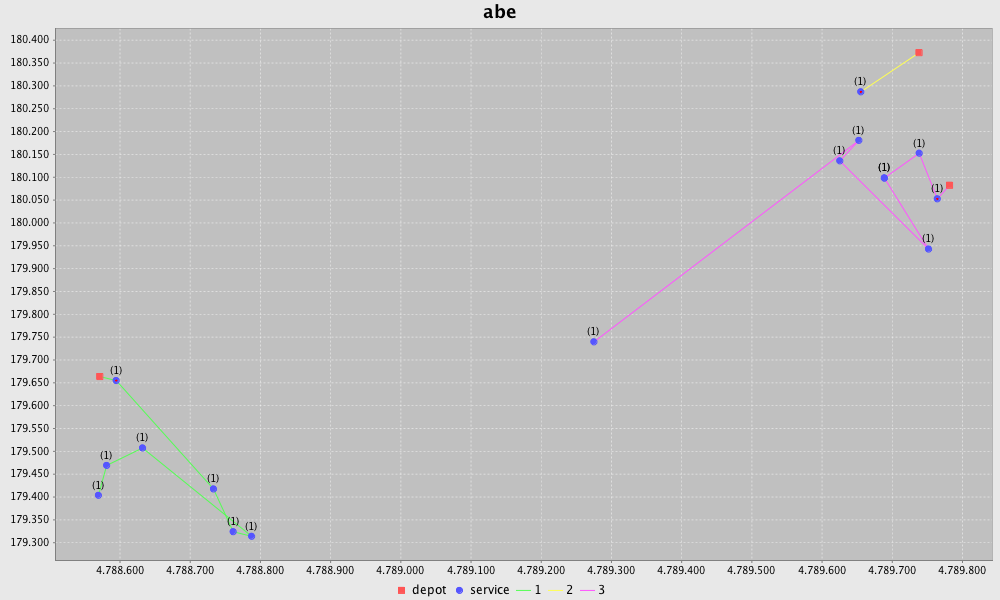
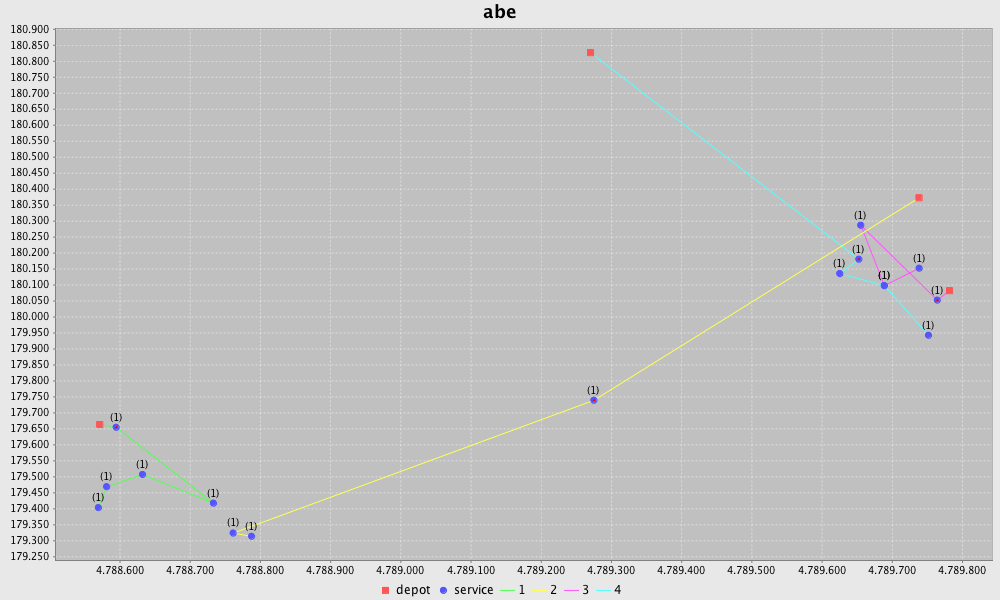
added MinMax problem

diff --git a/src/abe/AbeProblemMinMax.java b/src/abe/AbeProblemMinMax.java
@@ -1,0 +1,233 @@
+package abe;
+
+import java.io.IOException;
+import java.util.Collection;
+
+import jsprit.analysis.toolbox.AlgorithmSearchProgressChartListener;
+import jsprit.analysis.toolbox.Plotter;
+import jsprit.core.algorithm.VehicleRoutingAlgorithm;
+import jsprit.core.algorithm.VehicleRoutingAlgorithmBuilder;
+import jsprit.core.algorithm.recreate.VariableTransportCostCalculator;
+import jsprit.core.algorithm.state.StateManager;
+import jsprit.core.algorithm.state.StateUpdater;
+import jsprit.core.algorithm.termination.VariationCoefficientTermination;
+import jsprit.core.problem.VehicleRoutingProblem;
+import jsprit.core.problem.constraint.ConstraintManager;
+import jsprit.core.problem.constraint.SoftActivityConstraint;
+import jsprit.core.problem.cost.ForwardTransportTime;
+import jsprit.core.problem.cost.VehicleRoutingTransportCosts;
+import jsprit.core.problem.io.VrpXMLReader;
+import jsprit.core.problem.misc.JobInsertionContext;
+import jsprit.core.problem.solution.SolutionCostCalculator;
+import jsprit.core.problem.solution.VehicleRoutingProblemSolution;
+import jsprit.core.problem.solution.route.VehicleRoute;
+import jsprit.core.problem.solution.route.activity.ActivityVisitor;
+import jsprit.core.problem.solution.route.activity.End;
+import jsprit.core.problem.solution.route.activity.TourActivity;
+import jsprit.core.problem.solution.route.state.StateFactory;
+import jsprit.core.problem.solution.route.state.StateFactory.StateId;
+import jsprit.core.reporting.SolutionPrinter;
+import jsprit.core.reporting.SolutionPrinter.Print;
+import jsprit.core.util.ActivityTimeTracker;
+import jsprit.core.util.CalculationUtils;
+import jsprit.core.util.Solutions;
+import jsprit.core.util.VehicleRoutingTransportCostsMatrix;
+
+public class AbeProblemMinMax {
+	
+	/*
+	 * This updates the state "max-transport-time" which is introduced below. Once either the insertion procedure starts or a job has
+	 * been inserted, UpdateMaxTransportTime is called for the route that has been changed.
+	 * 
+	 * It must not only be an ActivityVisitor which indicates that the update procedure starts at the beginning of route all the way to end 
+	 * (in contrary to the ReverseActivityVisitor) but also be a StateUpdater which is just a marker to register it in the StateManager.
+	 * 
+	 * You do not need to declare this as static inner class. You can just choose your preferred approach. However, be aware
+	 * that this requires the stateName "max-transport-time" you define below. If you choose to define this as class in a new file, 
+	 * you might define "max-transport-time" as static id in another file, to make sure you do not have type errors etc..
+	 */
+	static class UpdateMaxTransportTime implements ActivityVisitor, StateUpdater {
+
+		private StateManager stateManager;
+		
+		private ActivityTimeTracker timeTracker;
+		
+		public UpdateMaxTransportTime(StateManager stateManager, ForwardTransportTime transportTime) {
+			super();
+			this.stateManager = stateManager;
+			this.timeTracker = new ActivityTimeTracker(transportTime);
+		}
+		
+		@Override
+		public void begin(VehicleRoute route) {
+			timeTracker.begin(route);
+		}
+
+		@Override
+		public void visit(TourActivity activity) {
+			timeTracker.visit(activity);
+		}
+
+		@Override
+		public void finish() {
+			timeTracker.finish();
+			double newRouteEndTime = timeTracker.getActArrTime();
+			double currentMaxTransportTime = stateManager.getProblemState(StateFactory.createId("max-transport-time"), Double.class);
+			if(newRouteEndTime > currentMaxTransportTime){
+				stateManager.putProblemState(StateFactory.createId("max-transport-time"), Double.class, newRouteEndTime);
+			}
+		}
+		
+	}
+	
+	public static void main(String[] args) throws IOException {
+		VehicleRoutingProblem.Builder vrpBuilder = VehicleRoutingProblem.Builder.newInstance();
+		new VrpXMLReader(vrpBuilder).read("input/abe/abrahamProblem.xml");
+		VehicleRoutingTransportCostsMatrix.Builder matrixBuilder = VehicleRoutingTransportCostsMatrix.Builder.newInstance(true);
+		final MatrixReader matrixReader = new MatrixReader(matrixBuilder);
+		matrixReader.read("input/abe/Matrix.txt");
+		VehicleRoutingTransportCostsMatrix matrix = matrixBuilder.build();
+		vrpBuilder.setRoutingCost(matrix);
+
+		final VehicleRoutingProblem problem = vrpBuilder.build();
+
+		/*
+		 * Your custom objective function that min max transport times. Additionally you can try to consider overall transport times
+		 * in your objective as well. Thus you minimize max transport times first, and second, you minimize overall transport time. 
+		 * 
+		 * If you choose to consider overall transport times, makes sure you scale it appropriately.
+		 */
+		SolutionCostCalculator objectiveFunction = new SolutionCostCalculator() {
+			
+			private double scalingParameter = 0.8;
+			
+			@Override
+			public double getCosts(VehicleRoutingProblemSolution solution) {
+				double maxTransportTime = 0.;
+				double sumTransportTimes = 0.;
+				for(VehicleRoute route : solution.getRoutes()){
+					double tpTime = route.getEnd().getArrTime() - route.getStart().getEndTime();
+					sumTransportTimes+=tpTime;
+					if(tpTime > maxTransportTime){
+						maxTransportTime = tpTime; 
+					}
+				}
+				return maxTransportTime + scalingParameter*sumTransportTimes;
+			}
+		};
+		
+		final StateManager stateManager = new StateManager(problem.getTransportCosts());
+		//introduce a new state called "max-transport-time" 
+		StateId max_transport_time_state = StateFactory.createId("max-transport-time");
+		//add a default-state for "max-transport-time"
+		stateManager.addDefaultProblemState(max_transport_time_state, Double.class, 0.);
+		//
+		stateManager.addStateUpdater(new UpdateMaxTransportTime(stateManager,problem.getTransportCosts()));
+		
+		/*
+		 * The insertion heuristics is controlled with your constraints
+		 */
+		ConstraintManager constraintManager = new ConstraintManager(problem, stateManager);
+		// soft constraint that calculates additional transport costs when inserting a job(activity) at specified position
+		constraintManager.addConstraint(new VariableTransportCostCalculator(problem.getTransportCosts()));
+		/*
+		 *  soft constraint that penalyzes a shift of max-route transport time, i.e. once the insertion heuristic
+		 *  tries to insert a jobActivity at position which results in a shift of max-transport-time, it is penalyzed with 
+		 *  penaltyForEachTimeUnitAboveCurrentMaxTime
+		 *  
+		 */
+		SoftActivityConstraint penalyzeShiftOfMaxTransportTime = new SoftActivityConstraint() {
+			private final VehicleRoutingTransportCosts routingCosts = problem.getTransportCosts();
+			
+			private final double penaltyForEachTimeUnitAboveCurrentMaxTime = 3.;
+			
+			@Override
+			public double getCosts(JobInsertionContext iFacts, TourActivity prevAct, TourActivity newAct, TourActivity nextAct, double depTimeAtPrevAct) {
+				/*
+				 * determines maximum of all routes' transport times, which is here basically a state that can be fetched via the stateManager
+				 */
+				double maxTime = stateManager.getProblemState(StateFactory.createId("max-transport-time"), Double.class);
+				/*
+				 * determines additional time of route when inserting newAct between prevAct and nextAct
+				 * 
+				 */
+				double tp_time_prevAct_newAct = routingCosts.getTransportTime(prevAct.getLocationId(), newAct.getLocationId(), depTimeAtPrevAct, iFacts.getNewDriver(), iFacts.getNewVehicle());
+				double newAct_arrTime = depTimeAtPrevAct + tp_time_prevAct_newAct;
+				double newAct_endTime = CalculationUtils.getActivityEndTime(newAct_arrTime, newAct);
+				/*
+				 * open routes - if route is set to be open, i.e. end is endogeneously determined by the algorithm, then inserting of newAct between prevAct
+				 * and end just shifts the route's end time to by tp_time_prevAct_newAct 
+				 * 
+				 */
+				if(nextAct instanceof End){
+					if(!iFacts.getNewVehicle().isReturnToDepot()){
+						double additionalTime = tp_time_prevAct_newAct;
+						double new_routes_transport_time = iFacts.getRoute().getEnd().getArrTime() - iFacts.getRoute().getStart().getEndTime() + additionalTime;
+						return penaltyForEachTimeUnitAboveCurrentMaxTime*Math.max(0,new_routes_transport_time-maxTime);
+					}
+				}
+				double tp_time_newAct_nextAct = routingCosts.getTransportTime(newAct.getLocationId(), nextAct.getLocationId(), newAct_endTime, iFacts.getNewDriver(), iFacts.getNewVehicle());
+				double nextAct_arrTime = newAct_endTime + tp_time_newAct_nextAct;
+				double oldTime;
+				if(iFacts.getRoute().isEmpty()){
+					oldTime = (nextAct.getArrTime() - depTimeAtPrevAct);
+				}
+				else{
+					oldTime = (nextAct.getArrTime() - iFacts.getRoute().getDepartureTime());
+				}
+				double additionalTime = (nextAct_arrTime - iFacts.getNewDepTime()) - oldTime;				
+				double tpTime = iFacts.getRoute().getEnd().getArrTime() - iFacts.getRoute().getStart().getEndTime() + additionalTime;
+				
+				return penaltyForEachTimeUnitAboveCurrentMaxTime*Math.max(0,tpTime-maxTime);
+				
+			}
+		};
+		constraintManager.addConstraint(penalyzeShiftOfMaxTransportTime);
+		
+		VehicleRoutingAlgorithmBuilder algorithmBuilder = new VehicleRoutingAlgorithmBuilder(problem, "/Users/schroeder/Documents/jsprit/abraham/algorithmConfig_stefan.xml");
+		algorithmBuilder.setObjectiveFunction(objectiveFunction);
+		algorithmBuilder.setStateManager(stateManager);
+		algorithmBuilder.setStateAndConstraintManager(stateManager, constraintManager);
+		algorithmBuilder.addCoreConstraints();
+
+		
+		VehicleRoutingAlgorithm algo = algorithmBuilder.build();
+
+		algo.addListener(new AlgorithmSearchProgressChartListener("output/abe/progress.png"));
+		VariationCoefficientTermination prematureAlgorithmTermination = new VariationCoefficientTermination(150, 0.001);
+		algo.addListener(prematureAlgorithmTermination);
+		algo.setPrematureAlgorithmTermination(prematureAlgorithmTermination);
+		
+		Collection<VehicleRoutingProblemSolution> solutions = algo.searchSolutions();
+		
+		Plotter plotter2 = new Plotter(problem,Solutions.bestOf(solutions));
+		plotter2.setShowFirstActivity(true);
+		plotter2.plot("output/abe/abeProblemWithSolution.png", "abe");
+		
+		SolutionPrinter.print(problem, Solutions.bestOf(solutions), Print.VERBOSE);
+		
+		System.out.println("total-time: " + getTotalTime(problem, Solutions.bestOf(solutions)));
+		System.out.println("total-distance: " + getTotalDistance(matrixReader, Solutions.bestOf(solutions)));
+		
+	}
+
+	private static double getTotalDistance(MatrixReader matrix,VehicleRoutingProblemSolution bestOf) {
+		double dist = 0.0;
+		for(VehicleRoute r : bestOf.getRoutes()){
+			TourActivity last = r.getStart();
+			for(TourActivity act : r.getActivities()){
+				dist += matrix.getDistance(last.getLocationId(), act.getLocationId());
+				last=act;
+			}
+			dist+=matrix.getDistance(last.getLocationId(), r.getEnd().getLocationId());
+		}
+		return dist;
+	}
+
+	private static double getTotalTime(VehicleRoutingProblem problem,VehicleRoutingProblemSolution bestOf) {
+		double time = 0.0;
+		for(VehicleRoute r : bestOf.getRoutes()) time+=r.getEnd().getArrTime();
+		return time;
+	}
+
+}
